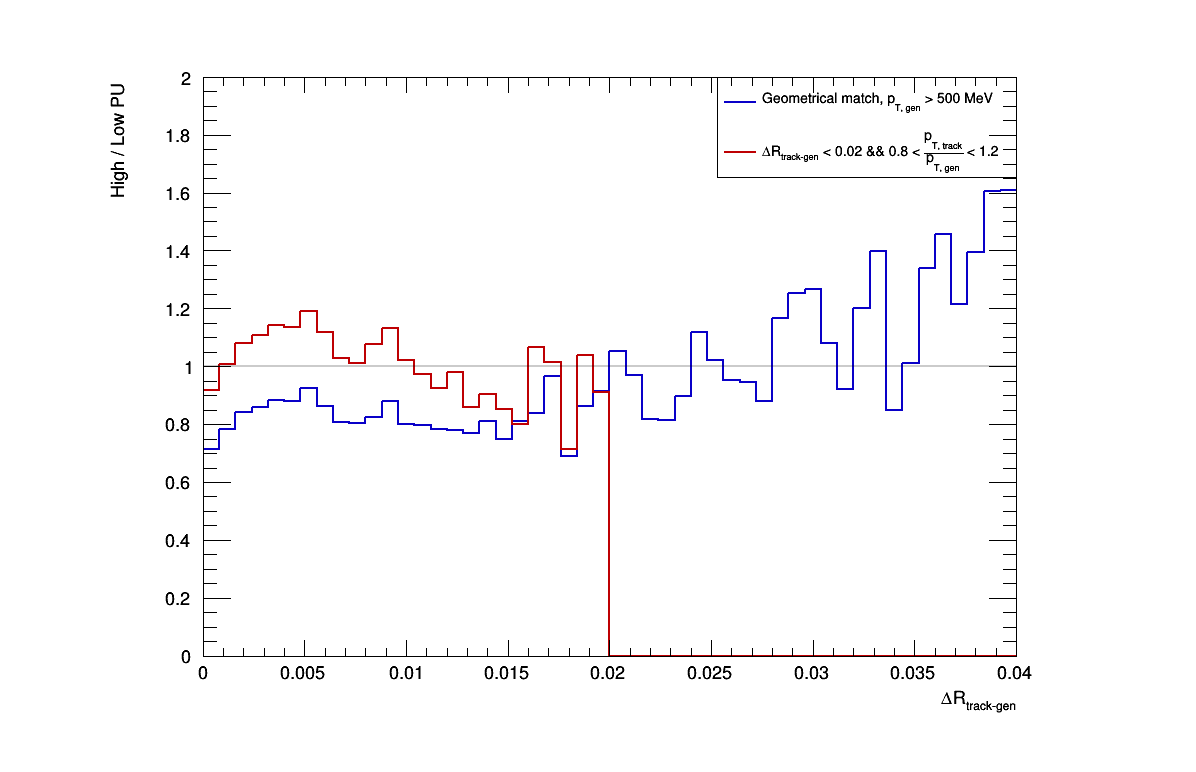
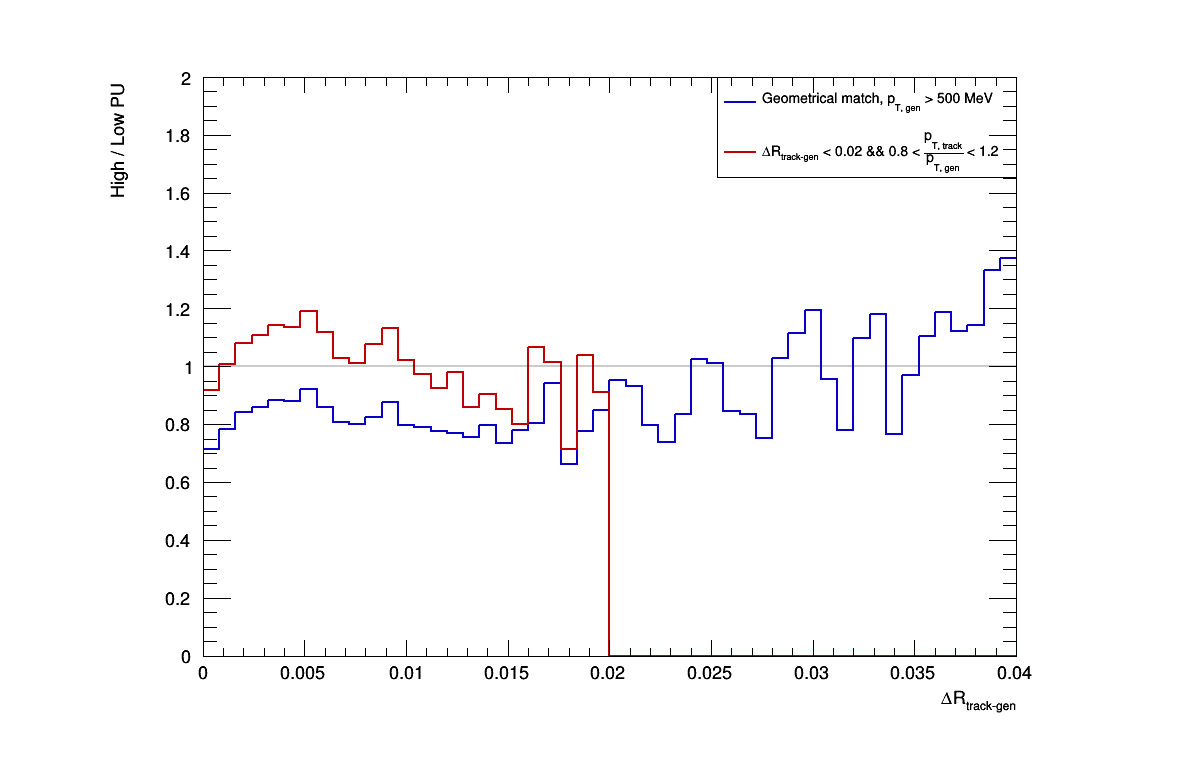
add 500 MeV cut for gen particles in geomatching

diff --git a/trk_gen_association/root/track_gen_association.C b/trk_gen_association/root/track_gen_association.C
@@ -11,7 +11,7 @@ void track_gen_association()
 {
     // Load trees with tracks and gen particles 
     TString fdir = "/home/llr/cms/kalipoliti/C10630p1_miniAOD/src/HeavyIonsAnalysis/Configuration/test/rootf/";
-    TString label = "HiForestMiniAOD_HighPU_10000events";
+    TString label = "HiForestMiniAOD_LowPU_10000events";
     TString fname = label + ".root";
     TString rootf = fdir + fname;
 
@@ -140,6 +140,8 @@ void track_gen_association()
 
             for (Int_t ipart = 0; ipart < hi.mult; ipart++) {
                 Float_t genPt = (*hi.pt)[ipart];
+                if (genPt < 0.5) continue;
+
                 Float_t genEta = (*hi.eta)[ipart];
                 Float_t genPhi = (*hi.phi)[ipart];
                 Int_t genSta = (*hi.sta)[ipart];
